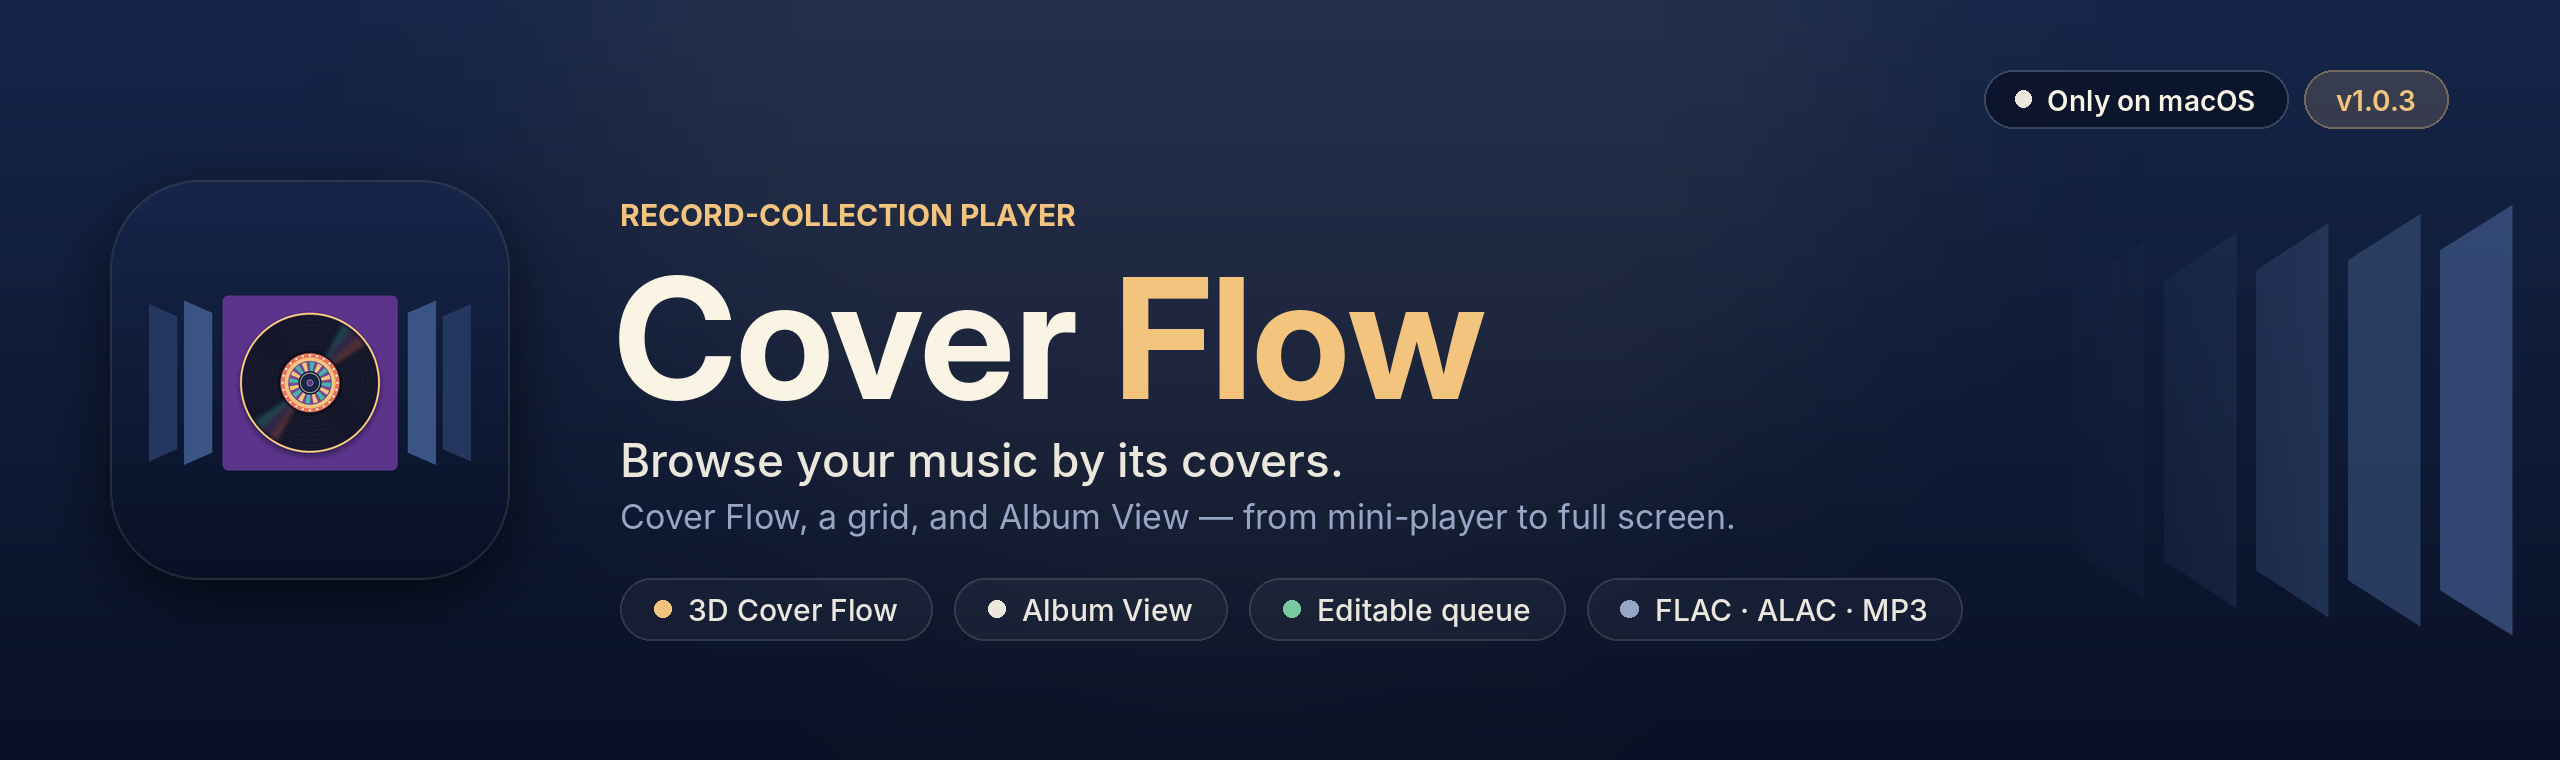
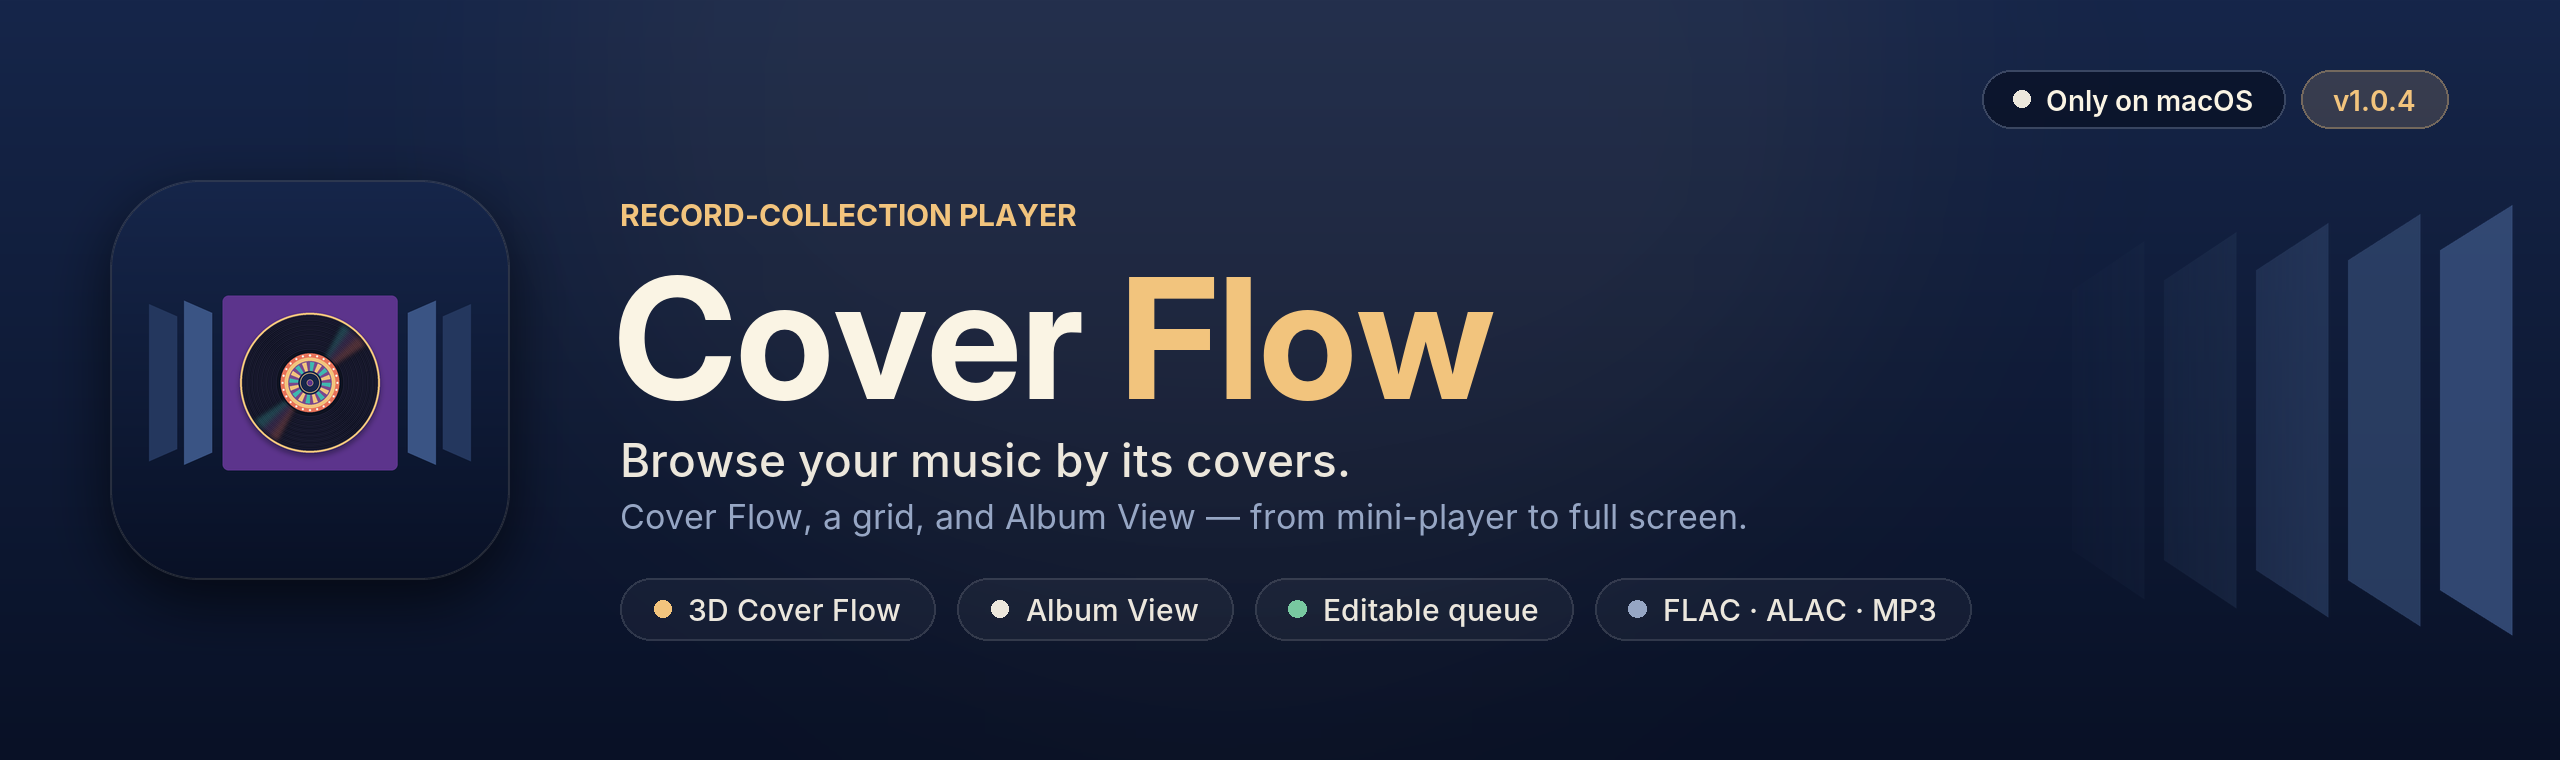
Prepare Cover Flow 1.0.4 release

diff --git a/scripts/make_brand.py b/scripts/make_brand.py
@@ -269,7 +269,7 @@ def badge(path, label, value, fill, text):
 
 def main():
     ap = argparse.ArgumentParser()
-    ap.add_argument("--version", default="1.0.3")
+    ap.add_argument("--version", default="1.0.4")
     v = ap.parse_args().version
     os.makedirs(os.path.join(ROOT, "docs"), exist_ok=True)
     app_icon(os.path.join(ROOT, "Resources/AppIcon-1024.png"))

diff --git a/README.md b/README.md
@@ -1,8 +1,8 @@
-<p align="center"><img src="docs/readme-header.png" alt="Cover Flow 1.0.3 — Only on macOS; browse your music by its covers" width="100%"></p>
+<p align="center"><img src="docs/readme-header.png" alt="Cover Flow 1.0.4 — Only on macOS; browse your music by its covers" width="100%"></p>
 
 <p align="center">
-  <a href="https://github.com/dustalexw/cover-flow/releases/tag/v1.0.3"><img src="docs/badge-release.svg" alt="Release v1.0.3"></a>
-  <a href="https://github.com/dustalexw/cover-flow/releases/download/v1.0.3/Cover-Flow-1.0.3-macOS.zip"><img src="docs/badge-download.svg" alt="Download the macOS app"></a>
+  <a href="https://github.com/dustalexw/cover-flow/releases/tag/v1.0.4"><img src="docs/badge-release.svg" alt="Release v1.0.4"></a>
+  <a href="https://github.com/dustalexw/cover-flow/releases/download/v1.0.4/Cover-Flow-1.0.4-macOS.zip"><img src="docs/badge-download.svg" alt="Download the macOS app"></a>
   <a href="#download-the-macos-app"><img src="docs/badge-platform.svg" alt="Platform: macOS 14 or later, Apple silicon"></a>
 </p>
 
@@ -14,8 +14,8 @@ almost full-screen cover.
 
 ## Download the macOS app
 
-Download **Cover-Flow-1.0.3-macOS.zip** from the
-[1.0.3 release](https://github.com/dustalexw/cover-flow/releases/tag/v1.0.3), unzip it, and move
+Download **Cover-Flow-1.0.4-macOS.zip** from the
+[1.0.4 release](https://github.com/dustalexw/cover-flow/releases/tag/v1.0.4), unzip it, and move
 **Cover Flow.app** to Applications. It runs on Apple-silicon Macs with macOS 14 or later. The app is
 ad-hoc signed rather than notarized, so the first time, right-click it and choose **Open**.
 
@@ -70,7 +70,7 @@ never copied, moved or modified. Window layout and preferences use standard macO
 ## Brand assets
 
 The app icon, README header and badges are generated by `scripts/make_brand.py`
-(`python3 scripts/make_brand.py --version 1.0.3`), following the same layout as the other
+(`python3 scripts/make_brand.py --version 1.0.4`), following the same layout as the other
 dustalexw apps in Cover Flow's navy, ivory and brass.
 
 ## Demo collection
